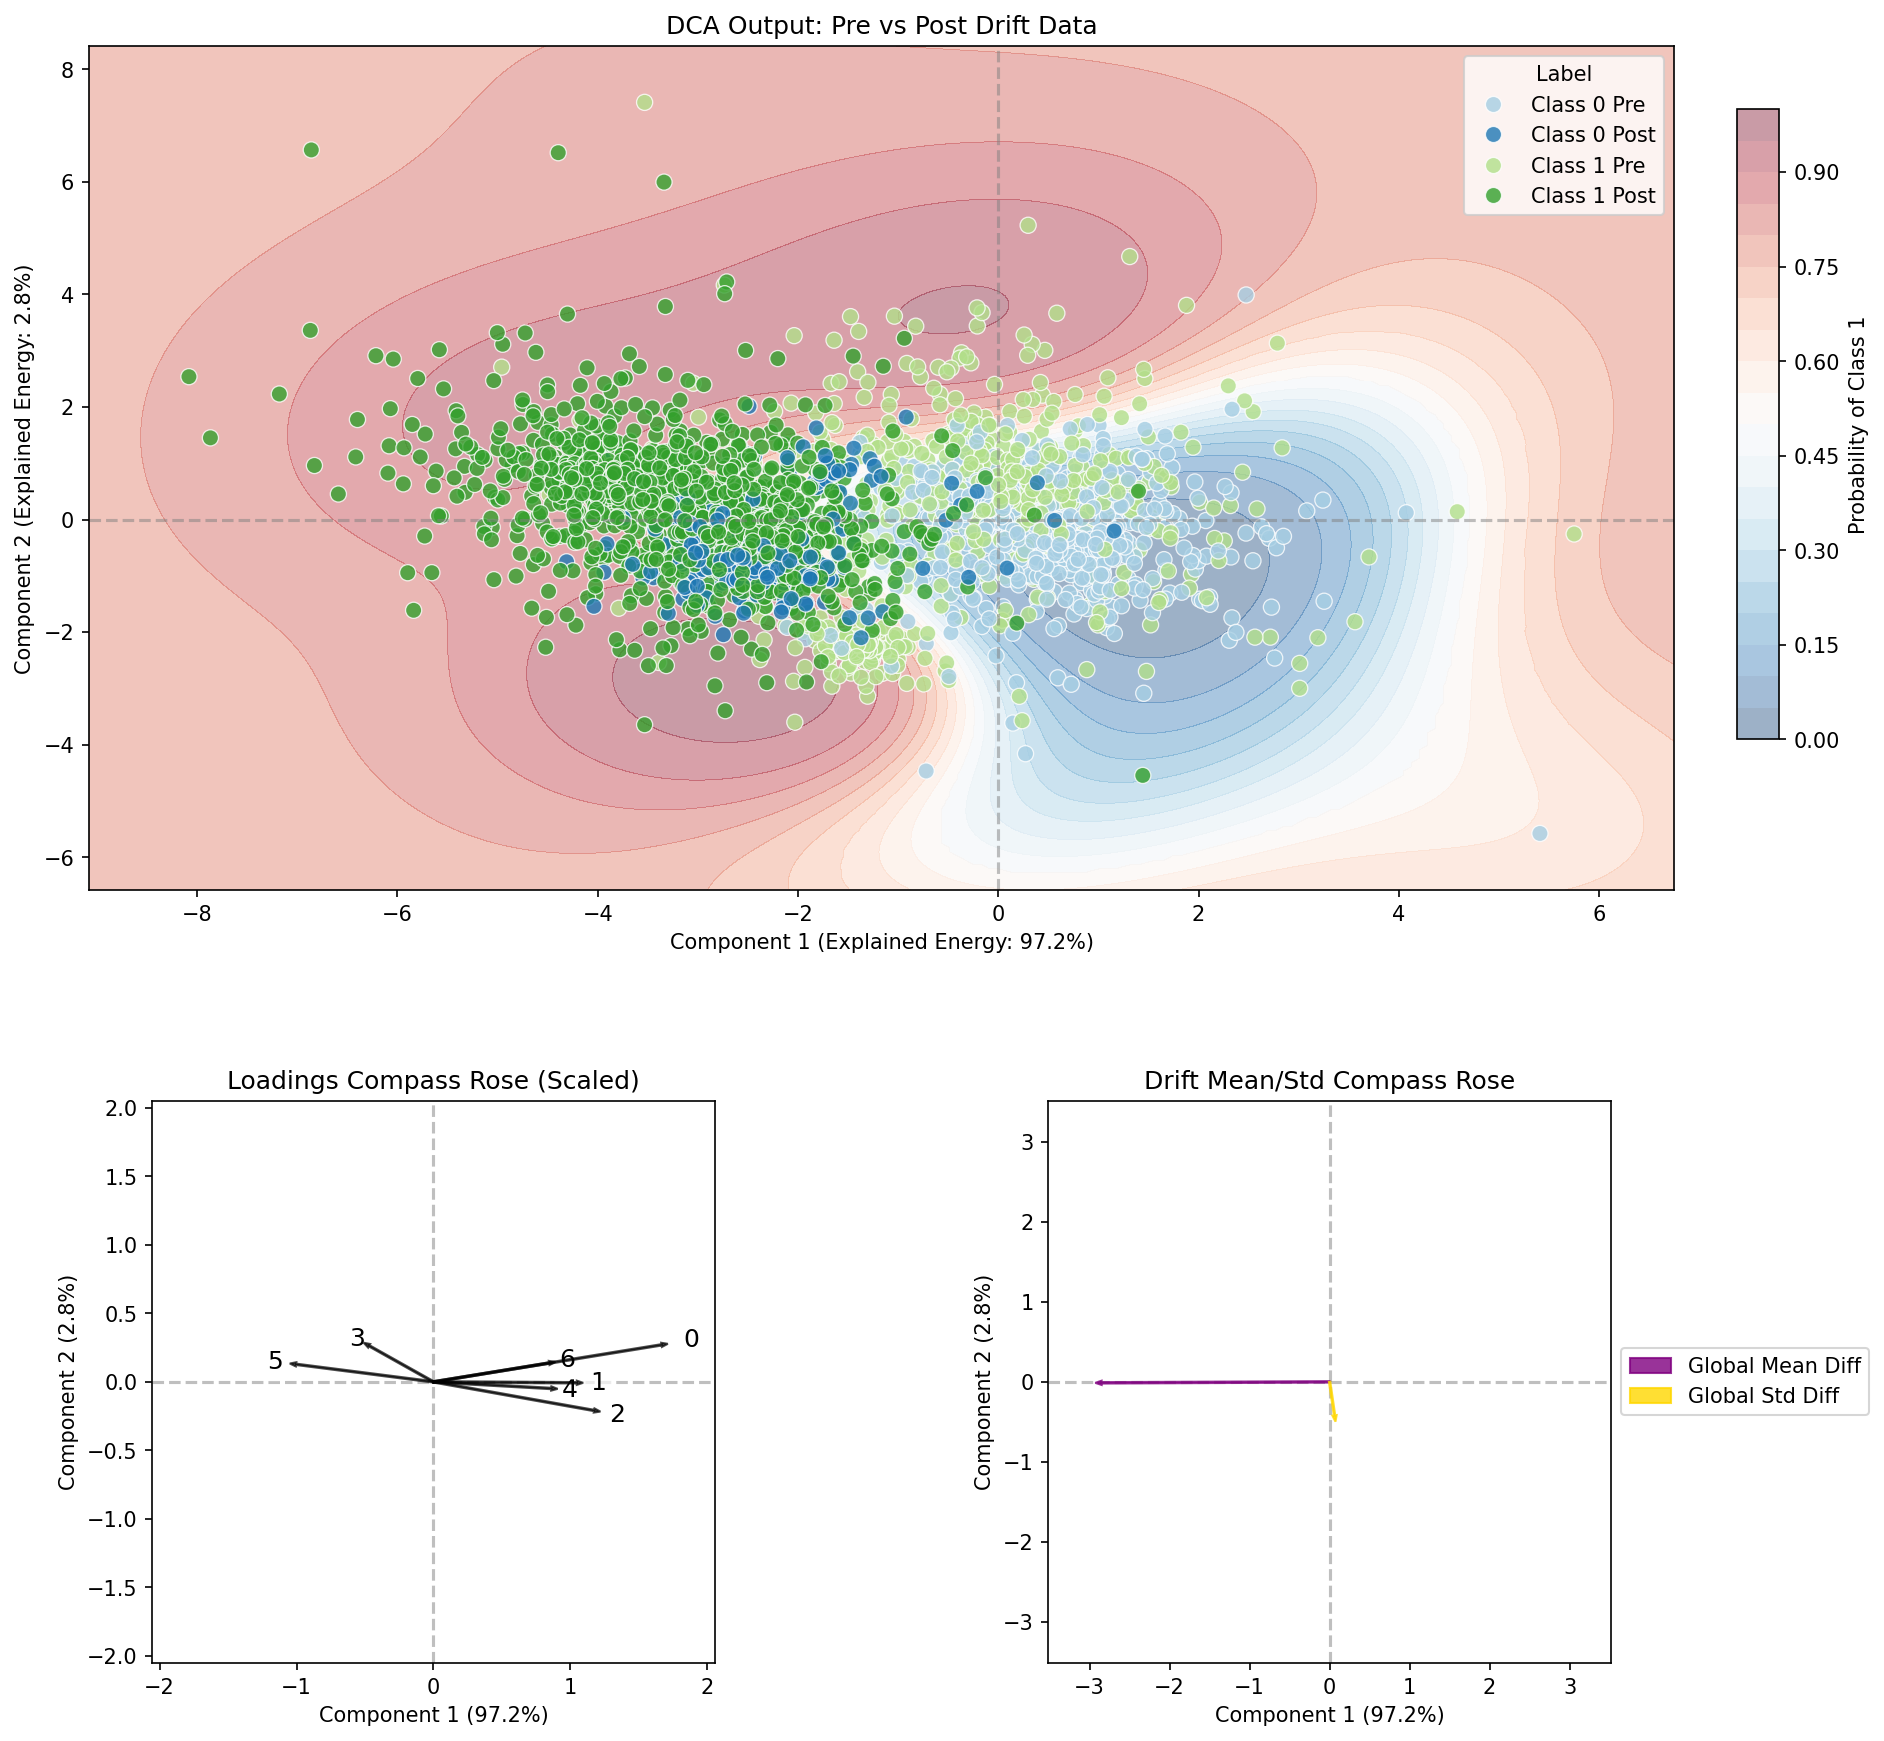
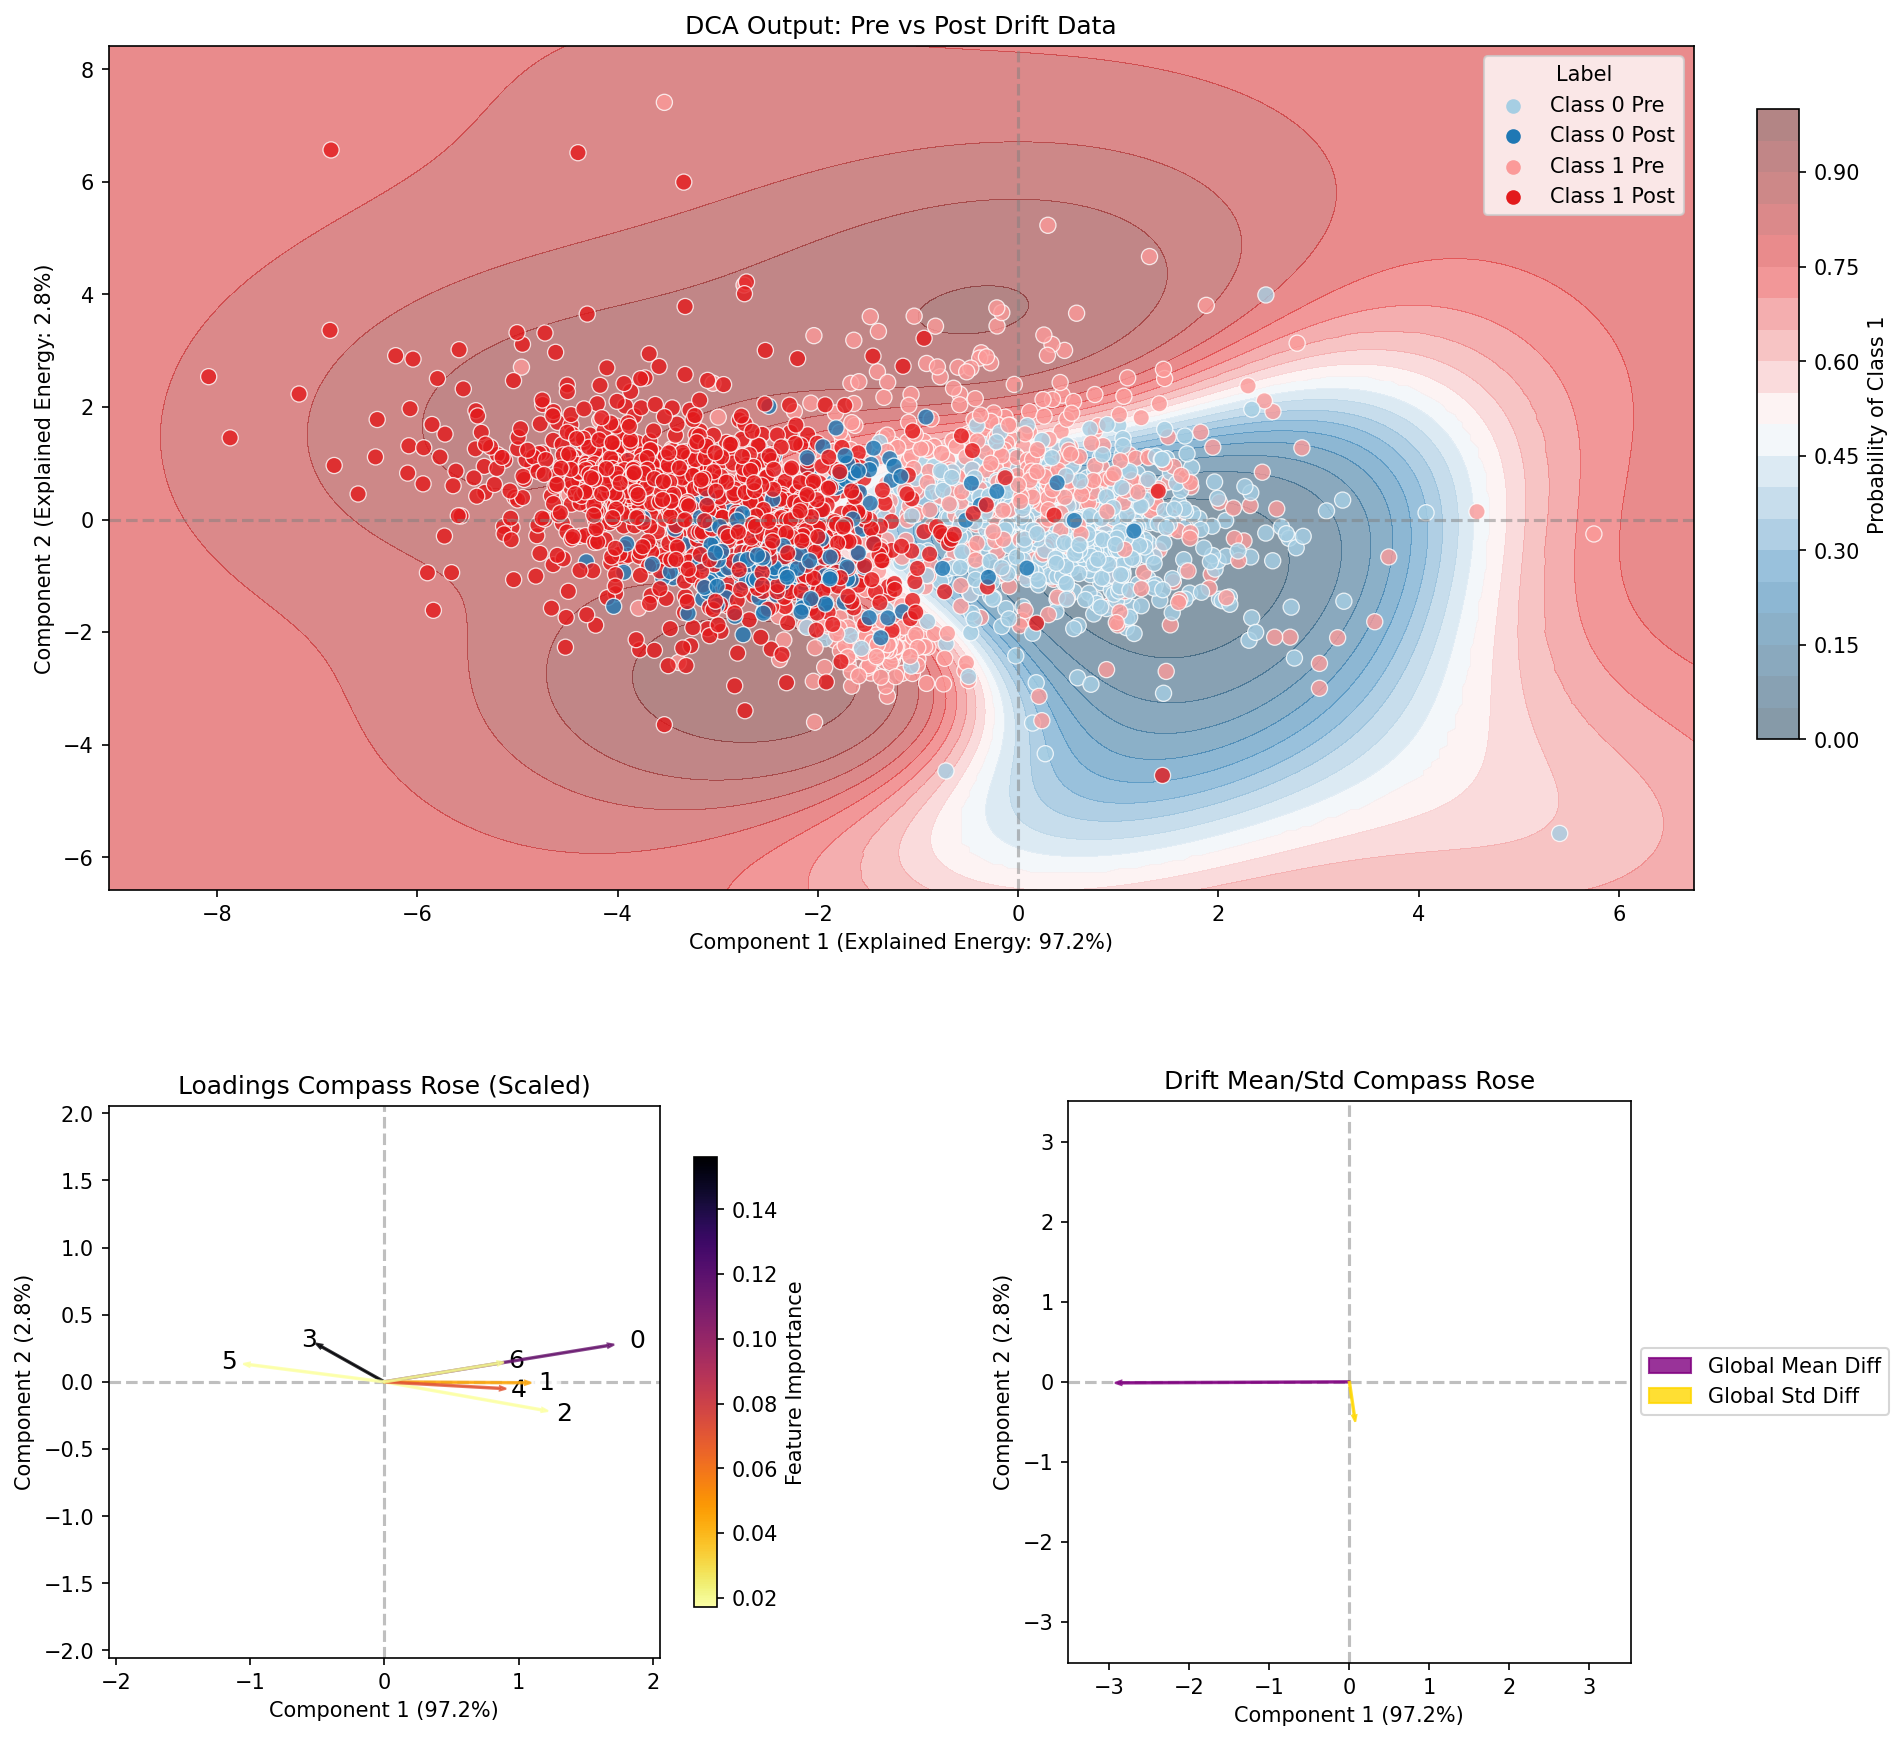
Update

diff --git a/scripts/run_dca.py b/scripts/run_dca.py
@@ -99,6 +99,10 @@ def run_dca():
 
     # Determine default color scheme
     color_scheme = args.color_scheme
+    if args.color_scheme == "class" and (args.drift_mode == "data" or len(classes) == 1):
+        logger.warning("Class color scheme cannot be used in a single or no class scenarios. Switching to drift color scheme.")
+        color_scheme = "drift"
+
     if color_scheme is None:
         if args.drift_mode == "data" or len(classes) == 1:
             color_scheme = "drift"
@@ -144,8 +148,10 @@ def run_dca():
     feature_importances = None
     if args.feature_importance and pre_drift_model is not None:
         logger.info("Calculating feature importances using permutation importance...")
-        result = permutation_importance(pre_drift_model, X_pre, y_pre, n_repeats=5, random_state=42, n_jobs=-1)
+        result = permutation_importance(pre_drift_model, X_pre, y_pre, n_repeats=5, random_state=42, n_jobs=-1) # TODO Run on test set?
         feature_importances = np.maximum(result.importances_mean, 0)
+
+    print("cs", color_scheme)
 
     # Fit DriftComponentAnalysis2 using SVD
     by_class = (args.drift_mode == "per-class")
